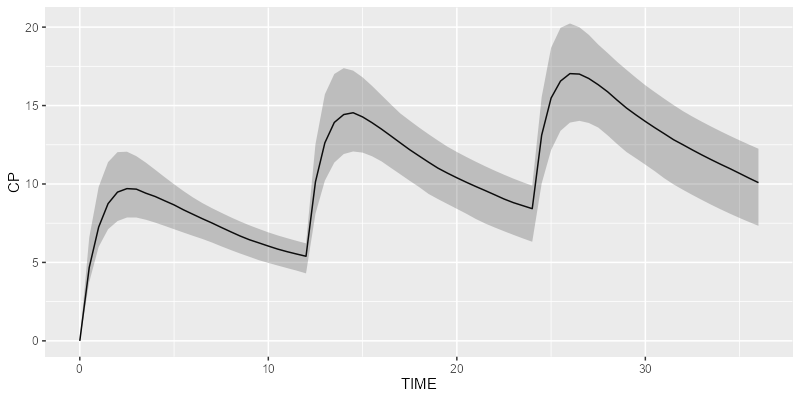
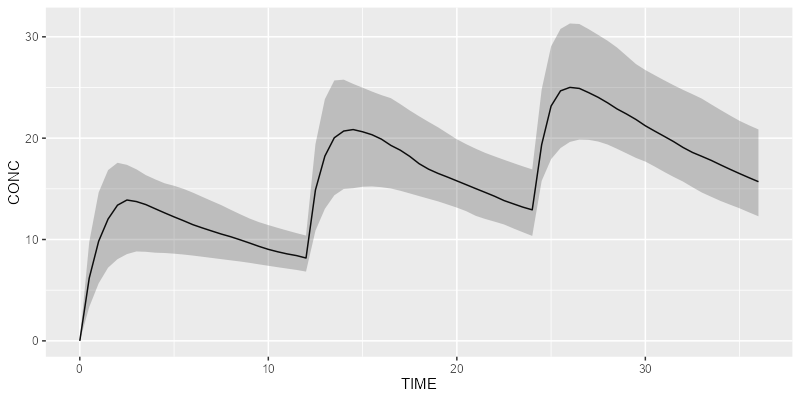
#101 Replace model_library by model_suite in vignettes.

diff --git a/README.md b/README.md
@@ -40,7 +40,7 @@ ds <- Dataset(50) %>%
 Load your own model or use a built-in model from the library:
 
 ``` r
-model <- model_library$advan4_trans4
+model <- model_suite$pk$`2cpt_fo`
 ```
 
 Simulate your results with your preferred simulation engine (`rxode2`,
@@ -53,7 +53,7 @@ results <- model %>% simulate(dataset=ds, dest="rxode2", seed=1)
 Plot your results:
 
 ``` r
-shadedPlot(results, "CP")
+shadedPlot(results, "CONC")
 ```
 
 ![](vignettes/resources/readme_plot.png)

diff --git a/NEWS.md b/NEWS.md
@@ -1,7 +1,7 @@
 # campsis 1.3.0
 
 * Add new simulation engine rxode2 #92.
-* Refactor all tests to support an unlimited number of engines #92
+* Refactor all tests to support multiple simulation engines #92
 
 # campsis 1.2.2
 
